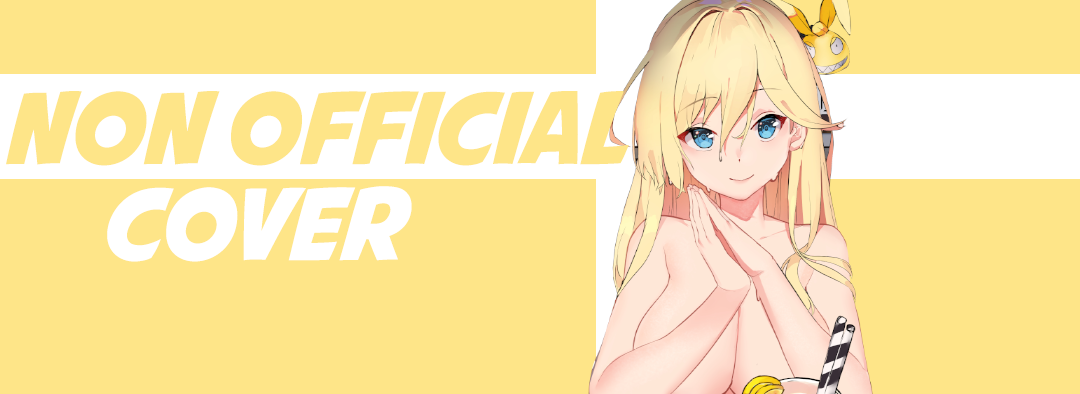
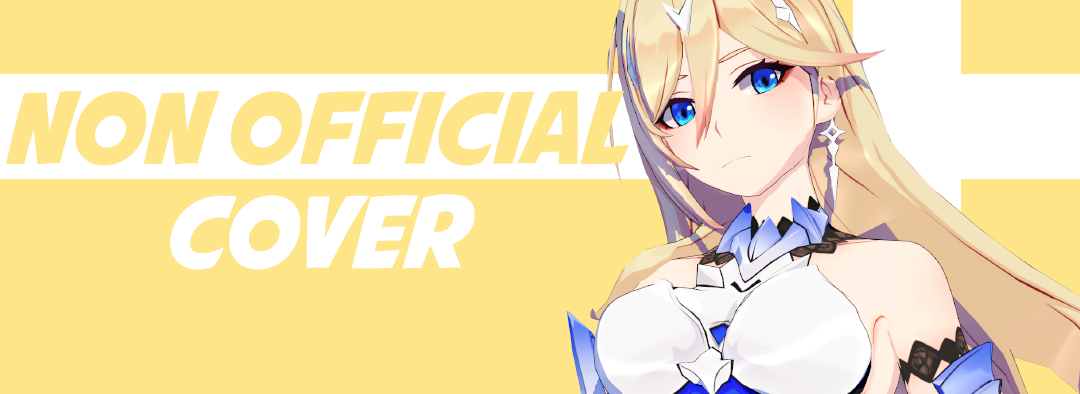
durandal

diff --git a/src/commands/info/supportserver.js b/src/commands/info/supportserver.js
@@ -9,13 +9,13 @@ module.exports = {
     run: async (client, message, args) => {
         const embed = new MessageEmbed()
             .setTitle('Support Server')
-            .setThumbnail(client.user.displayAvatarURL())
             .setDescription('Click [here](https://discord.gg/uXFZScA) to join the Lumina Support Server!')
             .addField('Other Links', 
             '**[Invite Me](https://discord.com/oauth2/authorize?client_id=780018362138886144&scope=bot&permissions=2147483647)**'
             )
             .setFooter(message.author.tag,  message.author.displayAvatarURL({ dynamic: true }))
             .setTimestamp()
+            .setImage('https://raw.githubusercontent.com/bintangyosua/LuminaDjs/main/src/libs/images/Durandal_Banner.png?token=AOMEPO5DB7DUZXV3GNYS2U277KKU6')
             .setColor("ED80A7");
         message.channel.send(embed);
     }
